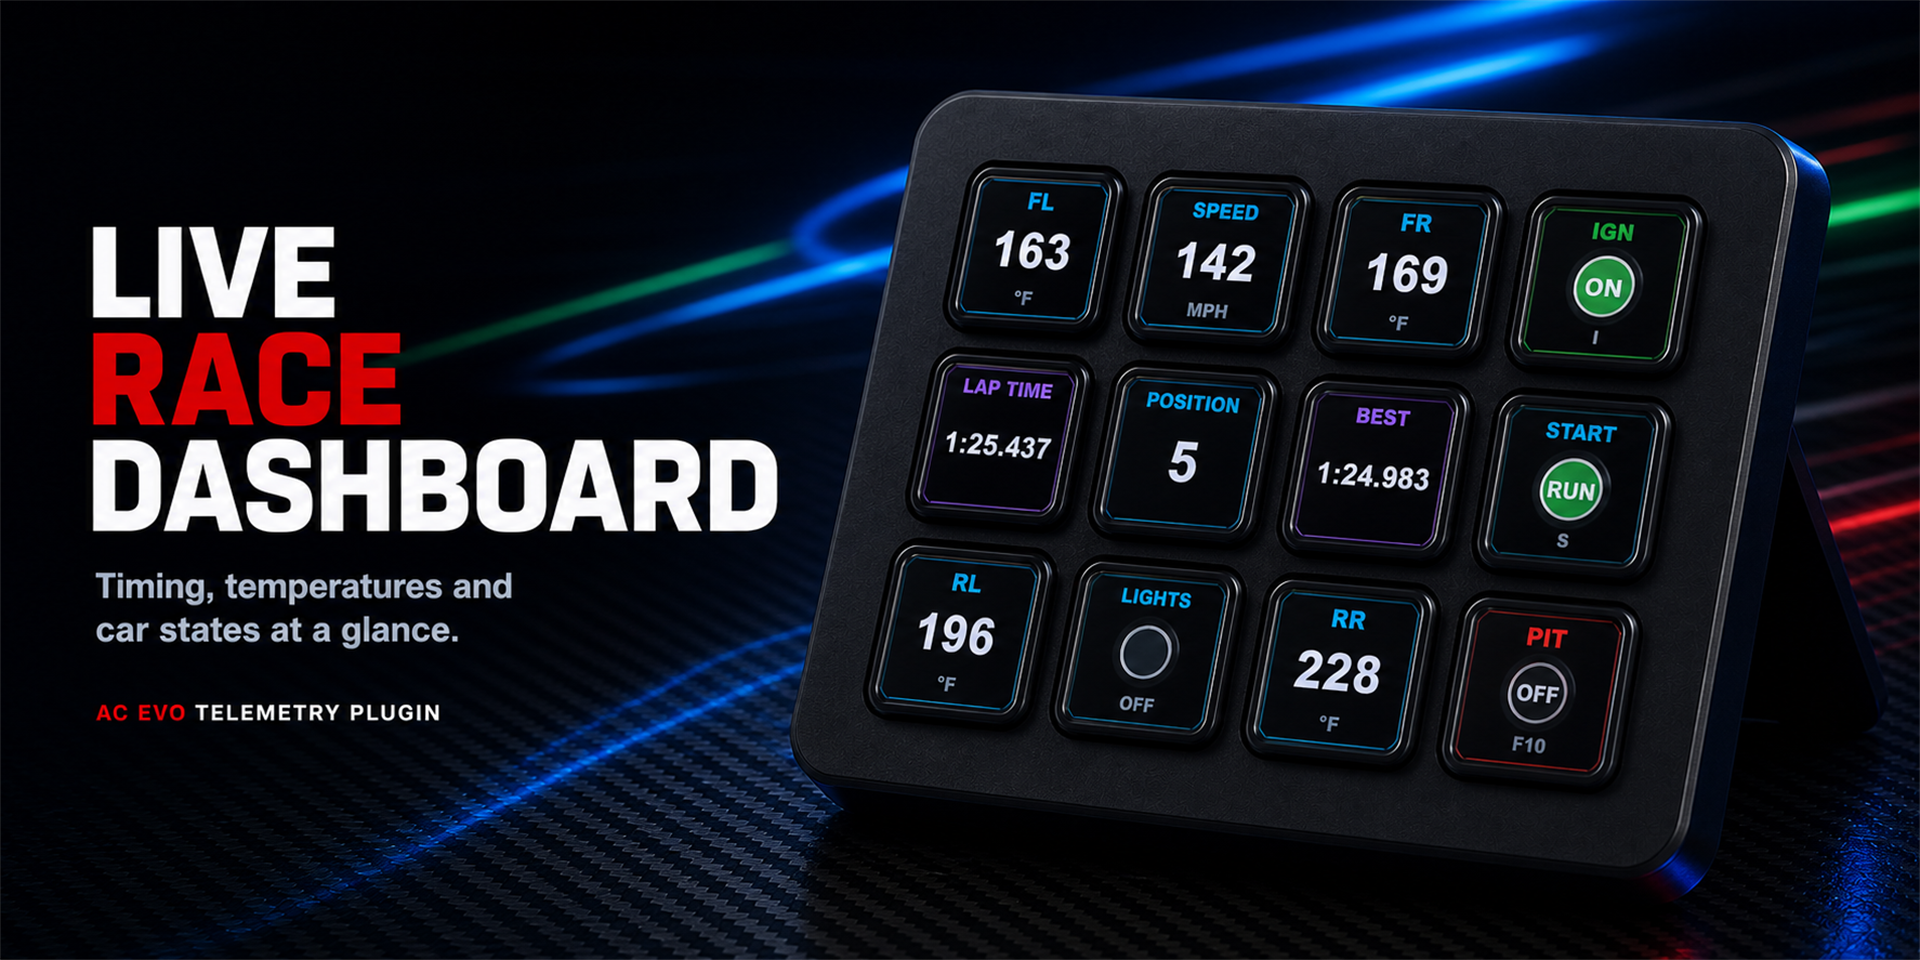
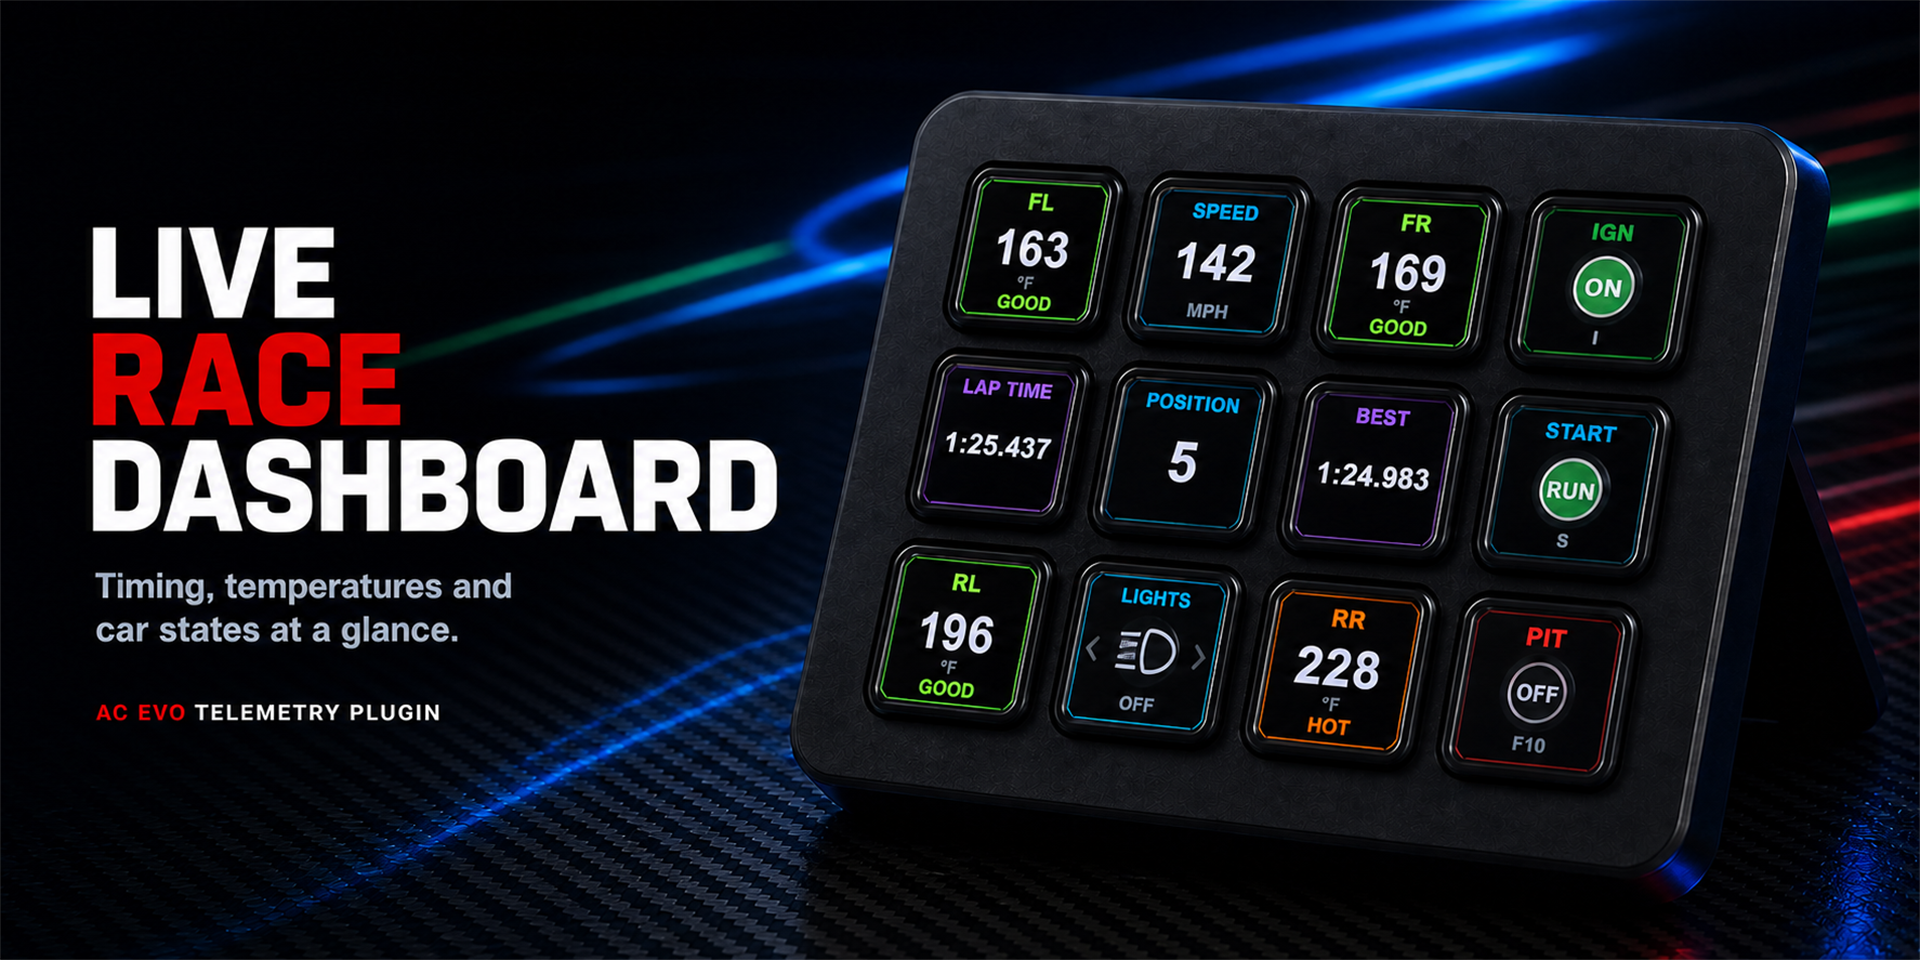
Sync support media with shipped key faces

diff --git a/index.html b/index.html
@@ -948,7 +948,7 @@
 
     <header class="masthead" id="top">
       <h1 class="visually-hidden">AC EVO Telemetry Plugin Support</h1>
-      <img class="hero-art" src="assets/marketplace-thumbnail.png?v=20260817d" width="1920" height="960" alt="AC EVO Telemetry Plugin showing live telemetry and controls on a 4 by 3 programmable-key layout">
+      <img class="hero-art" src="assets/marketplace-thumbnail.png?v=20260817f" width="1920" height="960" alt="AC EVO Telemetry Plugin showing live telemetry, readable thermal states, and controls on a 4 by 3 programmable-key layout">
       <div class="hero-support-band">
         <div class="wrap hero-support-inner">
           <p class="hero-support-copy"><strong>Support Center</strong>Setup, diagnostics, privacy, and issue reporting for the unofficial community plugin.</p>
@@ -971,8 +971,8 @@
           <span>Values and states update as you drive.</span>
         </div>
         <div class="summary-item" style="--accent: var(--yellow)">
-          <b>Thermal Colors</b>
-          <span>Tire, brake, and fluid temperature feedback.</span>
+          <b>Thermal States</b>
+          <span>Color plus readable tire, brake, and fluid status.</span>
         </div>
         <div class="summary-item" style="--accent: var(--violet)">
           <b>Per-Key Units</b>
@@ -1037,7 +1037,7 @@
 
         <div class="gallery-grid">
           <figure class="gallery-item">
-            <img src="assets/gallery-live-dashboard.png?v=20260817e" width="1920" height="960" alt="Live AC EVO race dashboard product render with timing, temperatures, position, lights, and controls">
+            <img src="assets/gallery-live-dashboard.png?v=20260817f" width="1920" height="960" alt="Live AC EVO race dashboard product render with timing, readable temperature states, position, headlamp state, and controls">
             <figcaption>
               <span class="caption-index">VIEW 01</span>
               <b>Live race dashboard</b>
@@ -1045,19 +1045,19 @@
             </figcaption>
           </figure>
           <figure class="gallery-item">
-            <img src="assets/gallery-thermal.png?v=20260817e" width="1920" height="960" alt="Thermal awareness product render showing tire, brake, fluid, and ambient temperatures in Fahrenheit">
+            <img src="assets/gallery-thermal.png?v=20260817f" width="1920" height="960" alt="Thermal awareness product render showing tire, brake, fluid, and ambient temperatures with readable thermal states in Fahrenheit">
             <figcaption>
               <span class="caption-index">VIEW 02</span>
               <b>Thermal awareness</b>
-              <p>Temperature values stay numeric while the outline color moves through the appropriate thermal gradient.</p>
+              <p>Each live value pairs its thermal gradient with a readable COLD, WARM, GOOD, HOT, or VERY HOT state.</p>
             </figcaption>
           </figure>
           <figure class="gallery-item">
-            <img src="assets/gallery-controls.png?v=20260817e" width="1920" height="960" alt="Live AC EVO controls and states product render with ignition, starter, pit limiter, lights, and indicators">
+            <img src="assets/gallery-controls.png?v=20260817f" width="1920" height="960" alt="Live AC EVO controls and states product render with ignition, starter, pit limiter, headlamp, and indicators">
             <figcaption>
               <span class="caption-index">VIEW 03</span>
               <b>Controls + states</b>
-              <p>Ignition, hold-to-start, pit limiter, lights, and blinking indicators remain distinct at a glance.</p>
+              <p>Ignition, hold-to-start, pit limiter, headlamp state, and blinking indicators remain distinct at a glance.</p>
             </figcaption>
           </figure>
         </div>
@@ -1110,12 +1110,12 @@
           </div>
           <div class="action-row" style="--accent: var(--green)">
             <span class="action-name">Tires</span>
-            <p>Four-corner temperatures with Fahrenheit or Celsius and thermal color feedback.</p>
+            <p>Four-corner temperatures with Fahrenheit or Celsius and live thermal color feedback.</p>
             <span class="action-tag">Live</span>
           </div>
           <div class="action-row" style="--accent: var(--yellow)">
             <span class="action-name">Lights</span>
-            <p>Cycles the configured EVO light key and displays reported light mode plus blinking indicators.</p>
+            <p>Cycles the configured EVO light key with a headlamp face, reported mode, and blinking indicators.</p>
             <span class="action-tag">Press</span>
           </div>
           <div class="action-row" style="--accent: var(--red)">
